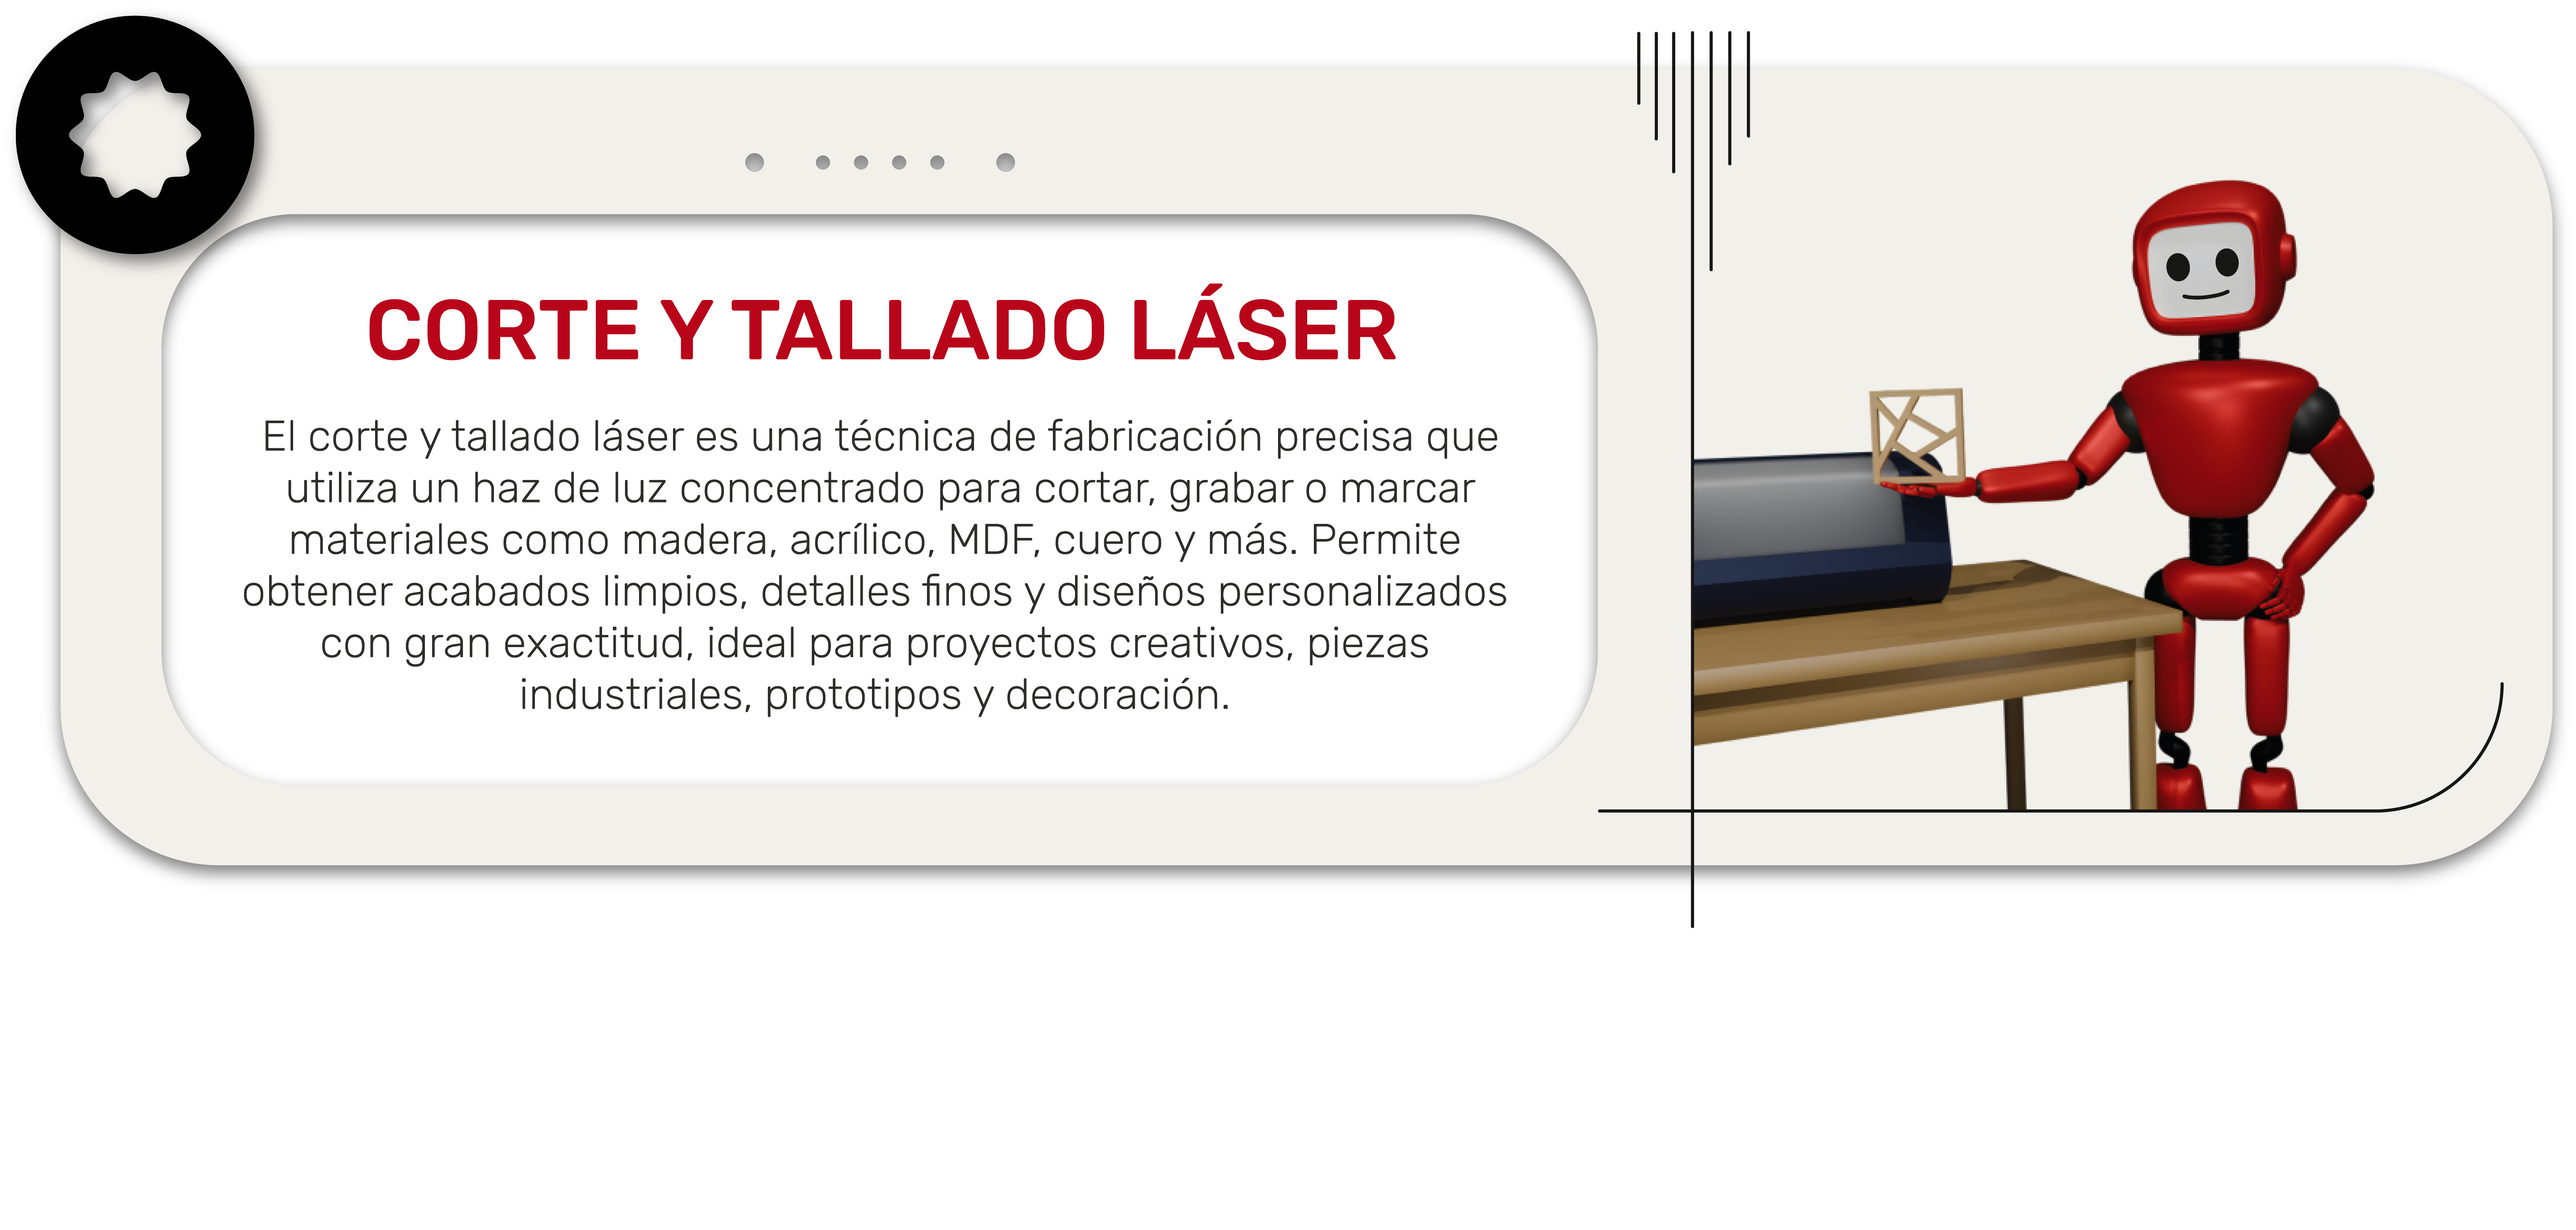
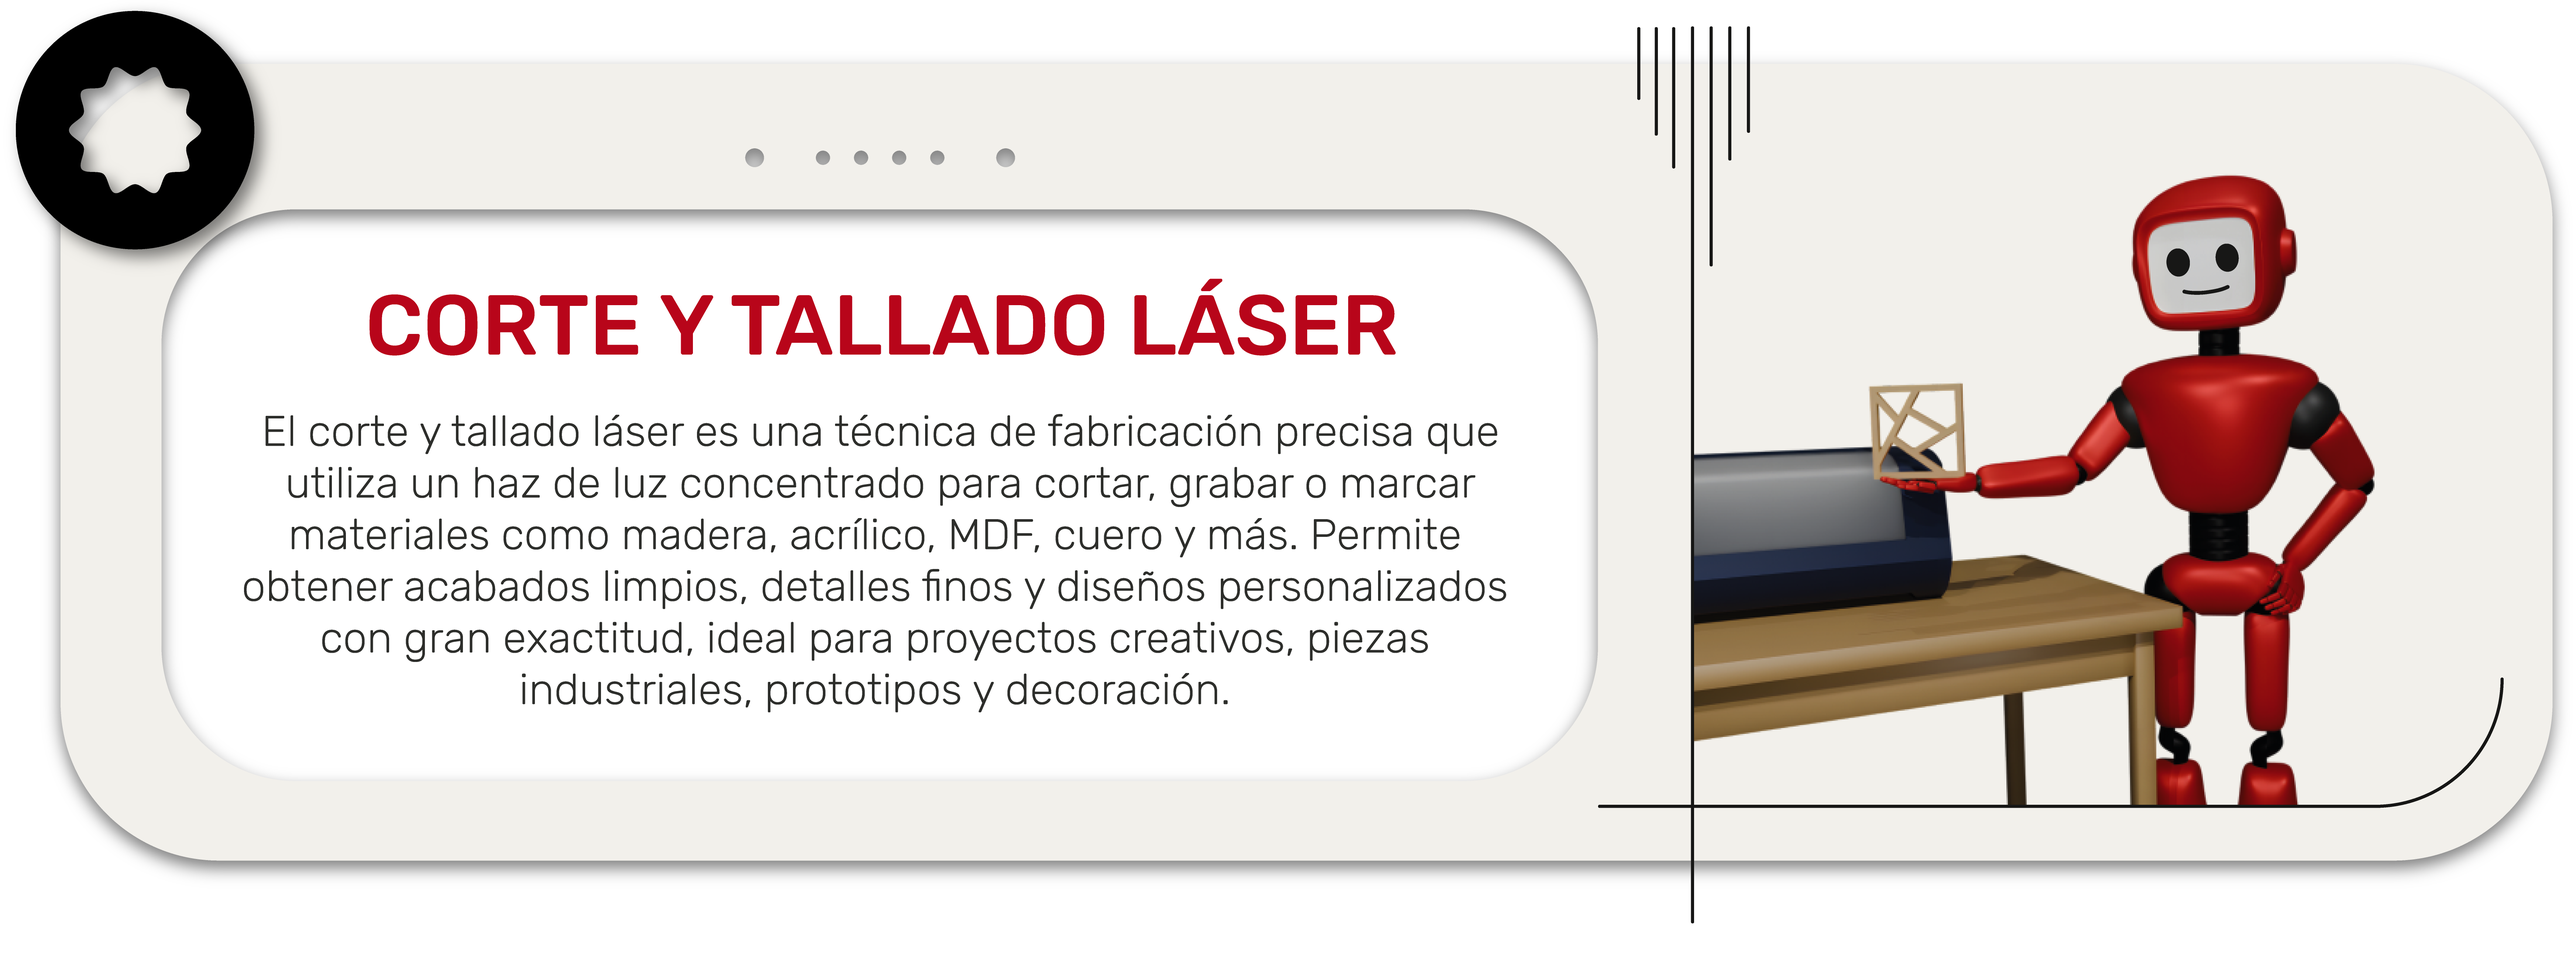
Images

diff --git a/src/components/OurProjects.jsx b/src/components/OurProjects.jsx
@@ -186,13 +186,24 @@ function OurProjects() {
         <Header />
         <section className="our-projects-hero">
           <div className="our-projects-hero-container">
-            <h1 className="our-projects-hero-title">NUESTROS PROYECTOS</h1>
-            <p className="our-projects-hero-description">
-              Trabajamos con variedad de materiales para cumplir funciones específicas y lograr acabados diversos. Cada creación es el resultado de diseño consciente y detalle en la fabricación.
-            </p>
+            <div className="our-projects-hero-content">
+              <div className="our-projects-hero-text-content">
+                <h1 className="our-projects-hero-title">NUESTROS PROYECTOS</h1>
+                <p className="our-projects-hero-description">
+                  Trabajamos con variedad de materiales para cumplir funciones específicas y lograr acabados diversos. Cada creación es el resultado de diseño consciente y detalle en la fabricación.
+                </p>
+              </div>
+              <div className="our-projects-hero-image-wrapper">
+                <img 
+                  src="/images/our-projects.png" 
+                  alt="Nuestros Proyectos" 
+                  className="our-projects-hero-image"
+                />
+              </div>
+            </div>
           </div>
         </section>
-        <section className="workshop-products-section">
+        <section className="workshop-products-section our-projects-section">
           <div className="workshop-products-container">
             <div className="our-projects-grid loading-skeleton">
               {[1, 2, 3, 4, 5, 6, 7, 8].map((index) => (
@@ -223,15 +234,26 @@ function OurProjects() {
       {/* Hero Section */}
       <section className="our-projects-hero">
         <div className="our-projects-hero-container">
-          <h1 className="our-projects-hero-title">NUESTROS PROYECTOS</h1>
-          <p className="our-projects-hero-description">
-            Trabajamos con variedad de materiales para cumplir funciones específicas y lograr acabados diversos. Cada creación es el resultado de diseño consciente y detalle en la fabricación.
-          </p>
+          <div className="our-projects-hero-content">
+            <div className="our-projects-hero-text-content">
+              <h1 className="our-projects-hero-title">NUESTROS PROYECTOS</h1>
+              <p className="our-projects-hero-description">
+                Trabajamos con variedad de materiales para cumplir funciones específicas y lograr acabados diversos. Cada creación es el resultado de diseño consciente y detalle en la fabricación.
+              </p>
+            </div>
+            <div className="our-projects-hero-image-wrapper">
+              <img 
+                src="/images/our-projects.png" 
+                alt="Nuestros Proyectos" 
+                className="our-projects-hero-image"
+              />
+            </div>
+          </div>
         </div>
       </section>
 
       {/* Products Section */}
-      <section className="workshop-products-section">
+      <section className="workshop-products-section our-projects-section">
         <div className="workshop-products-container">
           <div className="our-projects-grid">
             {products.map((product) => (

diff --git a/src/components/LaserCutting.jsx b/src/components/LaserCutting.jsx
@@ -278,10 +278,21 @@ function LaserCutting() {
       {/* Hero Section */}
       <section className="laser-cutting-hero">
         <div className="laser-cutting-hero-container">
-          <h1 className="hero-title">CORTE Y TALLADO LÁSER</h1>
-          <p className="hero-description">
-            El corte y tallado láser es una técnica de fabricación precisa que utiliza un haz de luz concentrado para cortar, grabar o marcar materiales como madera, acrílico, MDF, cuero y más. Permite obtener acabados limpios, detalles finos y diseños personalizados con gran exactitud, ideal para proyectos creativos, piezas industriales, prototipos y decoración.
-          </p>
+          <div className="laser-cutting-hero-content">
+            <div className="hero-text-content">
+              <h1 className="hero-title">CORTE Y TALLADO LÁSER</h1>
+              <p className="hero-description">
+                El corte y tallado láser es una técnica de fabricación precisa que utiliza un haz de luz concentrado para cortar, grabar o marcar materiales como madera, acrílico, MDF, cuero y más. Permite obtener acabados limpios, detalles finos y diseños personalizados con gran exactitud, ideal para proyectos creativos, piezas industriales, prototipos y decoración.
+              </p>
+            </div>
+            <div className="hero-image-wrapper">
+              <img 
+                src="/images/laser-cutting.png" 
+                alt="Corte y Tallado Láser" 
+                className="hero-image"
+              />
+            </div>
+          </div>
         </div>
       </section>
 

diff --git a/src/components/LaserCutting.css b/src/components/LaserCutting.css
@@ -17,7 +17,31 @@
 .laser-cutting-hero-container {
   max-width: 1200px;
   margin: 0 auto;
+}
+
+.laser-cutting-hero-content {
+  display: flex;
+  flex-direction: column;
+  align-items: center;
+  gap: 2rem;
+}
+
+.hero-text-content {
   text-align: center;
+  width: 100%;
+}
+
+.hero-image-wrapper {
+  display: none;
+  width: 100%;
+  max-width: 100%;
+}
+
+.hero-image {
+  width: 100%;
+  height: auto;
+  object-fit: contain;
+  display: block;
 }
 
 .hero-title {
@@ -36,6 +60,24 @@
   margin: 0 auto;
   max-width: 800px;
   font-weight: 400;
+}
+
+/* Show image on large screens, hide text */
+@media (min-width: 1200px) {
+  .laser-cutting-hero {
+    padding-top: 2rem;
+    padding-bottom: 0rem;
+  }
+
+  .hero-text-content {
+    display: none;
+  }
+
+  .hero-image-wrapper {
+    display: block;
+    width: 100%;
+    max-width: 100%;
+  }
 }
 
 /* Material Section */
@@ -188,6 +230,12 @@
 }
 
 /* Responsive Design */
+@media (max-width: 1199px) {
+  .hero-image-wrapper {
+    display: none;
+  }
+}
+
 @media (max-width: 968px) {
   .laser-cutting-hero {
     padding: 3rem 2rem;

diff --git a/src/components/OurProjects.css b/src/components/OurProjects.css
@@ -14,6 +14,34 @@
   margin: 0 auto;
 }
 
+.our-projects-hero-content {
+  display: flex;
+  flex-direction: column;
+  align-items: center;
+  gap: 2rem;
+}
+
+.our-projects-hero-text-content {
+  width: 100%;
+}
+
+.our-projects-hero-image-wrapper {
+  display: none;
+  width: 100%;
+  max-width: 100%;
+}
+
+.our-projects-section {
+  box-shadow: none;
+}
+
+.our-projects-hero-image {
+  width: 100%;
+  height: auto;
+  object-fit: contain;
+  display: block;
+}
+
 .our-projects-hero-title {
   font-size: 4rem;
   font-weight: 600;
@@ -29,6 +57,24 @@
   color: #000000;
   line-height: 1.6;
   max-width: 800px;
+}
+
+/* Show image on large screens, hide text */
+@media (min-width: 1200px) {
+  .our-projects-hero {
+    padding-top: 2rem;
+    padding-bottom: 0rem;
+  }
+
+  .our-projects-hero-text-content {
+    display: none;
+  }
+
+  .our-projects-hero-image-wrapper {
+    display: block;
+    width: 100%;
+    max-width: 100%;
+  }
 }
 
 /* Products Grid */
